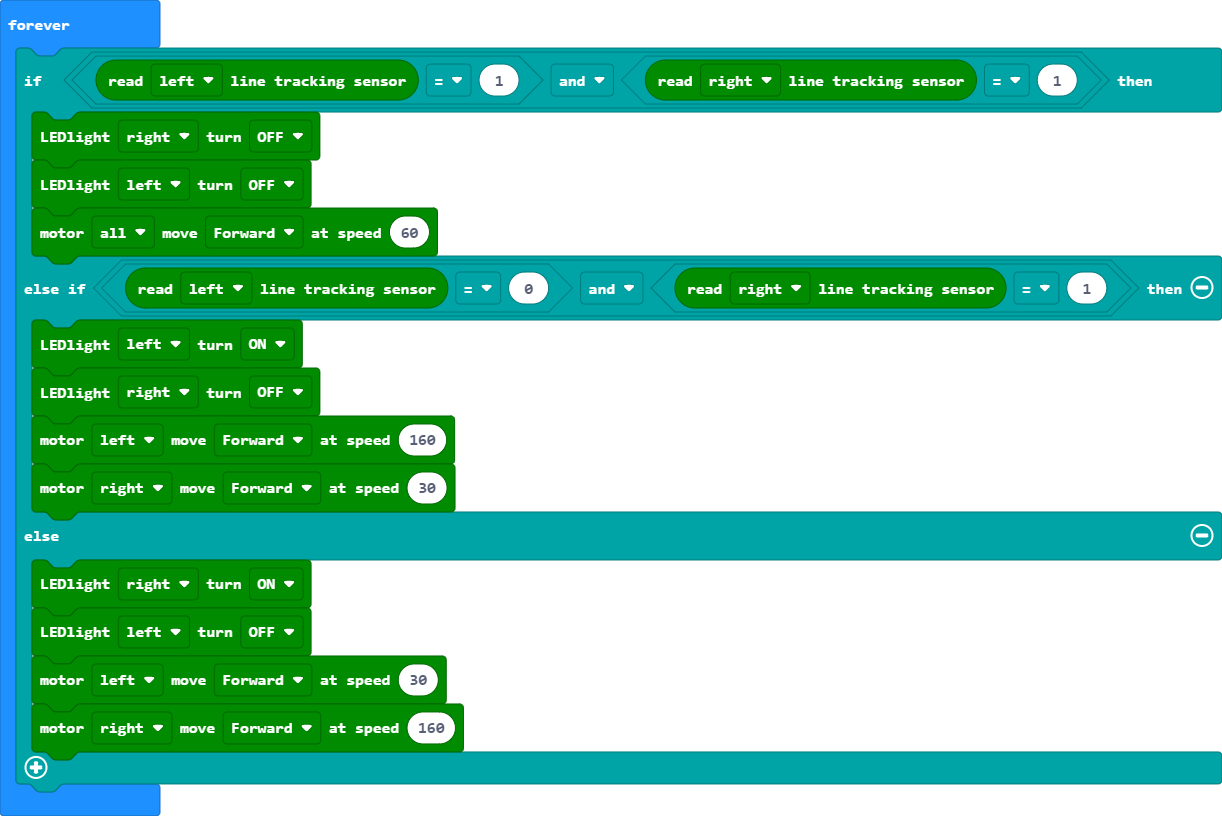
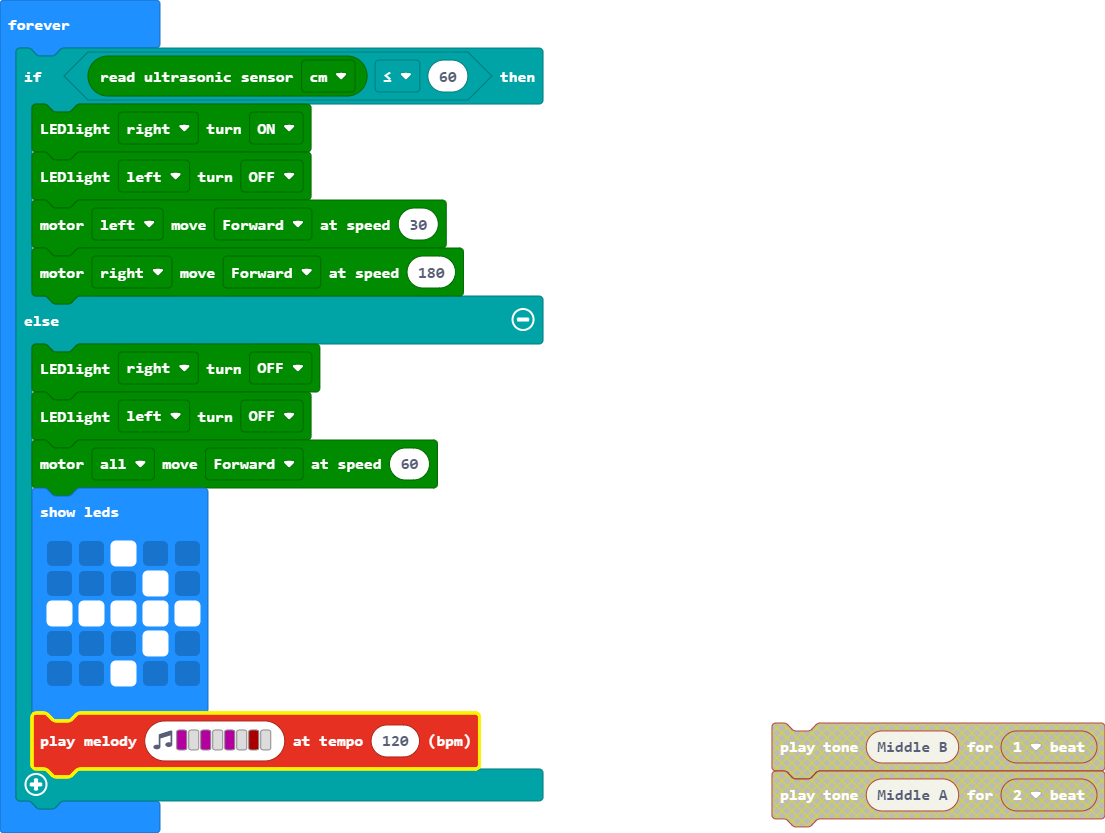
Update pxt.json, main.blocks, main.ts

diff --git a/main.ts b/main.ts
@@ -1,17 +1,20 @@
 basic.forever(function () {
-    if (maqueen.readPatrol(maqueen.Patrol.PatrolLeft) == 1 && maqueen.readPatrol(maqueen.Patrol.PatrolRight) == 1) {
-        maqueen.writeLED(maqueen.LED.LEDRight, maqueen.LEDswitch.turnOff)
-        maqueen.writeLED(maqueen.LED.LEDLeft, maqueen.LEDswitch.turnOff)
-        maqueen.motorRun(maqueen.Motors.All, maqueen.Dir.CW, 60)
-    } else if (maqueen.readPatrol(maqueen.Patrol.PatrolLeft) == 0 && maqueen.readPatrol(maqueen.Patrol.PatrolRight) == 1) {
-        maqueen.writeLED(maqueen.LED.LEDLeft, maqueen.LEDswitch.turnOn)
-        maqueen.writeLED(maqueen.LED.LEDRight, maqueen.LEDswitch.turnOff)
-        maqueen.motorRun(maqueen.Motors.M1, maqueen.Dir.CW, 160)
-        maqueen.motorRun(maqueen.Motors.M2, maqueen.Dir.CW, 30)
-    } else {
+    if (maqueen.Ultrasonic(PingUnit.Centimeters) <= 60) {
         maqueen.writeLED(maqueen.LED.LEDRight, maqueen.LEDswitch.turnOn)
         maqueen.writeLED(maqueen.LED.LEDLeft, maqueen.LEDswitch.turnOff)
         maqueen.motorRun(maqueen.Motors.M1, maqueen.Dir.CW, 30)
-        maqueen.motorRun(maqueen.Motors.M2, maqueen.Dir.CW, 160)
+        maqueen.motorRun(maqueen.Motors.M2, maqueen.Dir.CW, 180)
+    } else {
+        maqueen.writeLED(maqueen.LED.LEDRight, maqueen.LEDswitch.turnOff)
+        maqueen.writeLED(maqueen.LED.LEDLeft, maqueen.LEDswitch.turnOff)
+        maqueen.motorRun(maqueen.Motors.All, maqueen.Dir.CW, 60)
+        basic.showLeds(`
+            . . # . .
+            . . . # .
+            # # # # #
+            . . . # .
+            . . # . .
+            `)
+        music.playMelody("C - C - C - C5 - ", 120)
     }
 })
